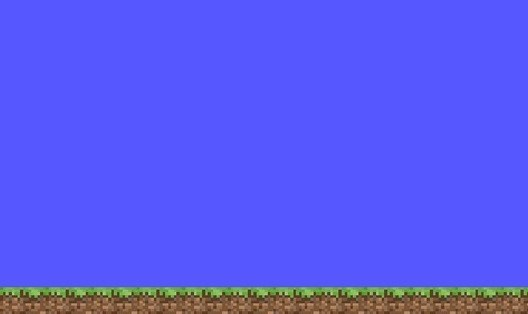
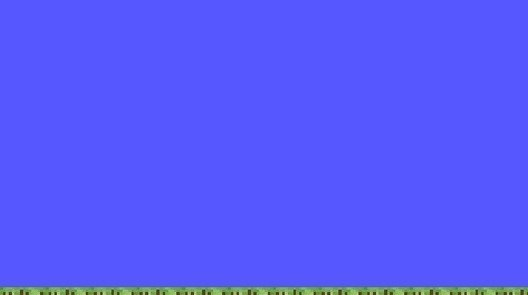
✨ New object falling, coins & hearts system added

Changed region(s): [[0.0, 0.8847, 1.0, 1.0]]

diff --git a/Minecraft_tnt_rain.py b/Minecraft_tnt_rain.py
@@ -1,190 +1,103 @@
-# Importation des modules.
-# Importation de la bibliothèque Pygame, qui permet de créer des jeux vidéo en Python.
 import pygame
-# Importation de la bibliothèque random, qui permet de générer des nombres aléatoires.
-import random
+from PlayerClass import Player
+from TntClass import Tnt
+from HealClass import Heal
+from CoinClass import Coin
 
-# Initialisation de la bibliothèque Pygame.
+p = Player()
 pygame.init()
-
-# Nom du jeu.
 pygame.display.set_caption("Minecraft TNT Rain 'Impossible Edition'")
 
-# Définition des couleurs, en utilisant le format RGB (Red, Green, Blue).
 BLACK = (0, 0, 0)
 WHITE = (255, 255, 255)
-
-# Création de la fenêtre de jeu, avec une taille de 640 pixels de large et 480 pixels de haut.
 width = 640
 height = 480
-
-# Création de la fenêtre de jeu avec la fonction set_mode() de la bibliothèque Pygame.
 game_window = pygame.display.set_mode((width, height))
 
-# Définition des variables de jeu, dimensions du personnage, position du personnage, vitesse du personnage, nombre de vies du personnage, score du personnage.
-player_x = width / 2 - 20 / 2
-player_y = height - 140
-player_speed = 10
-player_width = 50
-player_height = 100
-player_life = 5
-player_score = 0
-player_animation = 2
+Tnts = [Tnt(), Tnt()]
+Heals = [Heal()]
+Coins = [Coin()]
 
-# Définition des variables de jeu, dimensions des objets qui tombent du ciel, position des objets qui tombent du ciel, vitesse des objets qui tombent du ciel.
-object_x = random.randint(0, width - 20)
-object_y = 0
-object_speed = 10
-object_width = 40
-object_height = 40
+background = pygame.image.load("background.jpg")
+font = pygame.font.SysFont("comicsans", 30, True)
+score = 0
+font2 = pygame.font.SysFont("comicsans", 30, True)
+health = 5
 
-# Définition des variables de jeu, dimensions des objets qui tombent du ciel, position des objets qui tombent du ciel, vitesse des objets qui tombent du ciel.
-object2_x = object_x
-object2_y = object_y
-object2_speed = object_speed
-object2_width = object_width
-object2_height = object_height
-
-# Définition des variables de jeu, dimensions de la vie qui tombent du ciel, position de la vie qui tombent du ciel, vitesse de la vie qui tombent du ciel.
-life_x = random.randint(0, width - 20)
-life_y = 0
-life_speed = 15
-life_width = 40
-life_height = 40
-
-# Boucle principale du jeu, qui permet de faire tourner le jeu en permanence et de gérer les événements qui se produisent pendant le jeu.
 while True:
     
-    # Vérifie si l'utilisateur a cliqué sur la croix rouge de la fenêtre de jeu, pour fermer le jeu et arrêter la boucle principale tout en nettoyant les ressources utilisées par Pygame.
+    game_window.blit(pygame.transform.scale(
+        background, (width, height)), (0, 0))
+    
     for event in pygame.event.get():
         if event.type == pygame.QUIT:
             pygame.quit()
             quit()
-
-    # Affichage des objets qui tombent du ciel.
-    game_window.blit(pygame.transform.scale(pygame.image.load("object.png"), (object_width, object_height)), (object_x, object_y))
-    game_window.blit(pygame.transform.scale(pygame.image.load("object.png"), (object2_width, object2_height)), (object2_x, object2_y))
-    # Affichage des coeurs qui tombent du ciel.
-    game_window.blit(pygame.transform.scale(pygame.image.load("heart.png"), (life_width, life_height)), (life_x, life_y))
-
-    # Vérifie si l'utilisateur a appuyé sur une touche du clavier, pour déplacer le personnage.
+            
     keys = pygame.key.get_pressed()
-    # Si la touche flèche gauche est appuyée, le personnage se déplace vers la gauche.
+    
     if keys[pygame.K_LEFT]:
-        player_x -= player_speed
-        # Si la touche flèche gauche est appuyée, le personnage change d'apparence.
-        player_animation = 1
-    # Si la touche flèche droite est appuyée, le personnage se déplace vers la droite.
+        p.Move(-p.vit, 0)
+        
     if keys[pygame.K_RIGHT]:
-        player_x += player_speed
-        # Si la touche flèche droite est appuyée, le personnage change d'apparence.
-        player_animation = 0
-    object_y += object_speed
-    object2_y += object2_speed
-    life_y += life_speed
-    
-    # Quand auncune touche n'est appuyée, le personnage reste immobile.
-    if keys[pygame.K_LEFT] == False and keys[pygame.K_RIGHT] == False:
-        # Apparance par défaut du personnage (immobile).
-        player_animation = 2
-    
-    # Permet de définir les limites de déplacement du personnage et des objets, pour qu'il ne sorte pas de la fenêtre de jeu.
-    if player_x <= 0:
-        player_x = 0
-    if player_x >= width - player_width:
-        player_x = width - player_width
-    if object_y >= height:
-        object_y = 0
-        object_x = random.randint(0, width - 20)
-    if object2_y >= height:
-        object2_y = 0
-        object2_x = random.randint(0, width - 20)
-    if life_y >= height:
-        life_y = 0
-        life_x = random.randint(0, width - 20)
-
-    # Si l'objet "object" touche le personnage, le personnage perd une vie
-    if object_x + object_width >= player_x and object_x <= player_x + player_width and object_y + object_height >= player_y and object_y <= player_y + player_height:
-        player_life -= 1
-        object_y = 0
-        object_x = random.randint(0, width - 20)   
-    
-    # Si l'objet "object" touche le personnage, le personnage perd une vie
-    if object2_x + object2_width >= player_x and object2_x <= player_x + player_width and object2_y + object2_height >= player_y and object2_y <= player_y + player_height:
-        player_life -= 1
-        object2_y = 0
-        object2_x = random.randint(0, width - 20)    
-
-    # Si l'objet "life" touche le personnage, le personnage gagne une vie
-    if life_x + life_width >= player_x and life_x <= player_x + player_width and life_y + life_height >= player_y and life_y <= player_y + player_height:
-        player_life += 1
-        life_y = 0
-        life_x = random.randint(0, width - 20)
-
-    # Vérifie si le personnage n'a plus de vie, pour afficher un message de fin de jeu et remettre le score et le nombre de vies du personnage à 0.
-    if player_life == 0:
-        # Affiche un message de fin de jeu.
-        game_window.blit(pygame.font.SysFont("Arial", 20).render("Game Over", True, WHITE), (width / 2 - 50, height / 2 - 10))
-        # Affiche le score du personnage.
-        game_window.blit(pygame.font.SysFont("Arial", 20).render("Score: " + str(player_score), True, WHITE), (width / 2 - 50, height / 2 + 10))
-        # Met à jour l'affichage de la fenêtre de jeu.
-        pygame.display.update()
-        # Attend 5 secondes avant de remettre le score et le nombre de vies du personnage à 0.
-        pygame.time.wait(5000)
-        # Remet le nombre de vies du personnage à 5.
-        player_life = 5
-        # Remet le score du personnage à 0.
-        player_score = 0
-        # Fait réapparaître l'objet à un endroit aléatoire de la fenêtre de jeu.
-        object_y = 0
-        object_x = random.randint(0, width - 20)
-        object2_y = 0
-        object2_x = random.randint(0, width - 20)
-        # Fait réapparaître les points de vie à un endroit aléatoire de la fenêtre de jeu.
-        life_y = 0
-        life_x = random.randint(0, width - 20)
-
-    # Vérifie si l'objet qui tombe du ciel est arrivé au sol, pour augmenter la vitesse de l'objet, augmenter la taille de l'objet, augmenter le score du personnage et diminuer la vitesse du personnage.
-    if object_y == 0:
-        # Augmente la vitesse de l'objet qui tombe du ciel.
-        object_speed += 0.25
-        # Augmente la taille de l'objet qui tombe du ciel.
-        object_height += 0.1
-        object_width += 0.1
-        # Augmente la vitesse du coeur qui tombe du ciel jusqu'à 30.
-        if life_speed > 1:
-            life_speed -= 1
-        # Réduit la taille du coeur qui tombe du ciel.
-        life_height -= 0.1
-        life_width -= 0.1
-        # Augmente le score du personnage.
-        player_score += 1
-        # Diminue la vitesse du personnage.
-        player_speed -= 0.1
-    
-    # Si le joueur appuie sur la touche Echap, le jeu se ferme.
-    if keys[pygame.K_ESCAPE]:
-        pygame.quit()
-        quit()
-
-    if player_animation == 0:
-        # Affichage du personnage qui se déplace vers la droite.
-        game_window.blit(pygame.transform.scale(pygame.image.load("player_right.png"), (player_width, player_height)), (player_x, player_y))
-    elif player_animation == 1:
-        # Affichage du personnage qui se déplace vers la gauche.
-        game_window.blit(pygame.transform.scale(pygame.image.load("player_left.png"), (player_width, player_height)), (player_x, player_y))
-    else:
-        # Affichage du personnage immobile.
-        game_window.blit(pygame.transform.scale(pygame.image.load("player.png"), (player_width, player_height)), (player_x, player_y))
-    
-    # Affichage du score du personnage.
-    game_window.blit(pygame.font.SysFont("Arial", 20).render("Score: " + str(player_score), True, WHITE), (15, 10))
-    # Affichage du nombre de vies du personnage.
-    game_window.blit(pygame.font.SysFont("Arial", 20).render("Life: " + str(player_life), True, WHITE), (width - 70, 10))
-
-    # Actualisation de la fenêtre de jeu.
-    pygame.display.update()
-    # Affichage de l'image de fond.
-    game_window.blit(pygame.transform.scale(pygame.image.load("background.jpg"), (width, height)), (0, 0))
-    # Définition de la vitesse de rafraîchissement de la fenêtre de jeu, pour éviter que le jeu ne tourne trop vite.
-    pygame.time.Clock().tick(60)
+        p.Move(p.vit, 0)
+        
+    for t in Tnts:
+        t.Move()
+        t.Draw(game_window)
+        
+    for h in Heals:
+        h.Move()
+        h.Draw(game_window)
+        
+    for c in Coins:
+        c.Move()
+        c.Draw(game_window)
+        
+    if p.x < 0:
+        p.x = 0
+        
+    if p.x > width - p.width:
+        p.x = width - p.width
+        
+    for t in Tnts:
+        if t.y + t.height > p.y:
+            if t.x + t.width > p.x and t.x < p.x + p.width:
+                Tnts.append(Tnt())
+                Tnts.remove(t)
+                p.health -= 1
+                health -= 1
+                
+                if p.health <= 0:
+                    text = font.render("Game Over", 1, WHITE)
+                    game_window.blit(
+                        text, (width/2 - text.get_width()/2, height/2 - text.get_height()/2))
+                    pygame.display.flip()
+                    pygame.time.delay(3000)
+                    p = Player()
+                    Tnts = [Tnt(), Tnt()]
+                    Heals = [Heal()]
+                    score = 0
+                    health = 5
+                    
+    for h in Heals:
+        if h.y + h.height > p.y:
+            if h.x + h.width > p.x and h.x < p.x + p.width:
+                Heals.append(Heal())
+                Heals.remove(h)
+                p.health += 1
+                health += 1
+                
+    for c in Coins:
+        if c.y + c.height > p.y:
+            if c.x + c.width > p.x and c.x < p.x + p.width:
+                Coins.append(Coin())
+                Coins.remove(c)
+                score += 1
+                
+    text = font.render("Score: " + str(score), 1, WHITE)
+    game_window.blit(text, (10, 10))
+    text2 = font2.render("Health: " + str(health), 1, WHITE)
+    game_window.blit(text2, (width - text2.get_width() - 10, 10))
+    p.Draw(game_window)
+    pygame.display.flip()

diff --git a/PlayerClass.py b/PlayerClass.py
@@ -1,0 +1,25 @@
+import pygame
+
+class Player :
+        def __init__(self):
+                self.x = 270
+                self.y = 400
+                self.vit = 0.25
+                self.width = 34
+                self.height = 68
+                self.health = 5
+                self.image = pygame.transform.scale(pygame.image.load("player.png"), (self.width, self.height))
+                self.image_left = pygame.transform.scale(pygame.image.load("player_left.png"), (self.width, self.height))
+                self.image_right = pygame.transform.scale(pygame.image.load("player_right.png"), (self.width, self.height))
+        def Move(self, x, y):
+                self.x += x
+                self.y += y
+        def Draw(self, window):
+            keys = pygame.key.get_pressed()
+            if keys[pygame.K_LEFT]:
+                player = self.image_left
+            elif keys[pygame.K_RIGHT]:
+                player = self.image_right
+            else:
+                player = self.image
+            window.blit(player, (self.x, self.y))

diff --git a/TntClass.py b/TntClass.py
@@ -1,0 +1,19 @@
+import pygame 
+import random
+
+class Tnt :
+        def __init__(self):
+                self.x = 100
+                self.y = 0
+                self.vit = 0.1
+                self.width = 30
+                self.height = 30
+                self.image = pygame.transform.scale(pygame.image.load("object.png"), (30, 30))
+        def Move(self):
+            self.y += 1*self.vit
+            if self.y > 420:
+                self.x = random.randrange(640-30)
+                self.y = random.randrange(-100, 0)
+            return False
+        def Draw(self, window):
+            window.blit(self.image, (self.x, self.y))

diff --git a/CoinClass.py b/CoinClass.py
@@ -1,0 +1,19 @@
+import pygame 
+import random
+
+class Coin :
+        def __init__(self):
+                self.x = 100
+                self.y = 0
+                self.vit = 0.1
+                self.width = 30
+                self.height = 30
+                self.image = pygame.transform.scale(pygame.image.load("coin.png"), (30, 30))
+        def Move(self):
+            self.y += 1*self.vit
+            if self.y > 420:
+                self.x = random.randrange(640-30)
+                self.y = random.randrange(-100, 0)
+            return False
+        def Draw(self, window):
+            window.blit(self.image, (self.x, self.y))

diff --git a/HealClass.py b/HealClass.py
@@ -1,0 +1,19 @@
+import pygame
+import random
+
+class Heal :
+        def __init__(self):
+                self.x = 100
+                self.y = 0
+                self.vit = 0.1
+                self.width = 30
+                self.height = 30
+                self.image = pygame.transform.scale(pygame.image.load("heart.png"), (30, 30))
+        def Move(self):
+            self.y += 1*self.vit
+            if self.y > 420:
+                self.x = random.randrange(640-30)
+                self.y = random.randrange(-100, 0)
+            return False
+        def Draw(self, window):
+            window.blit(self.image, (self.x, self.y))
